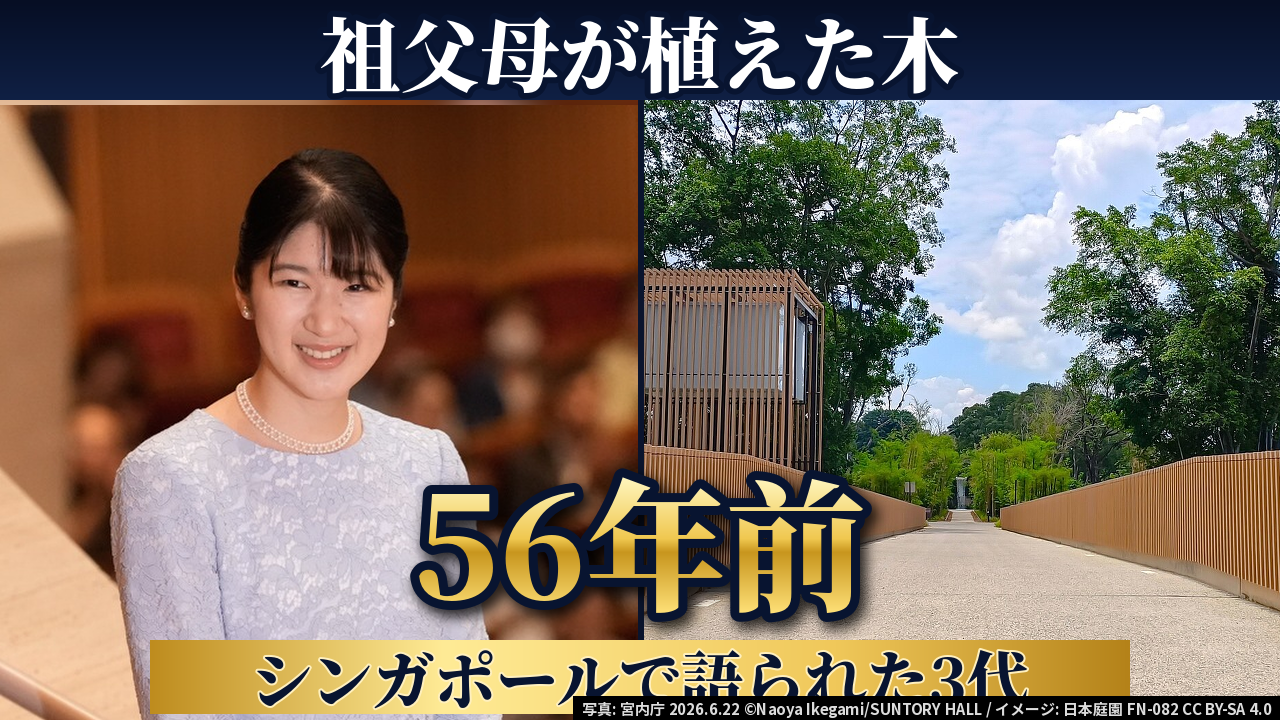
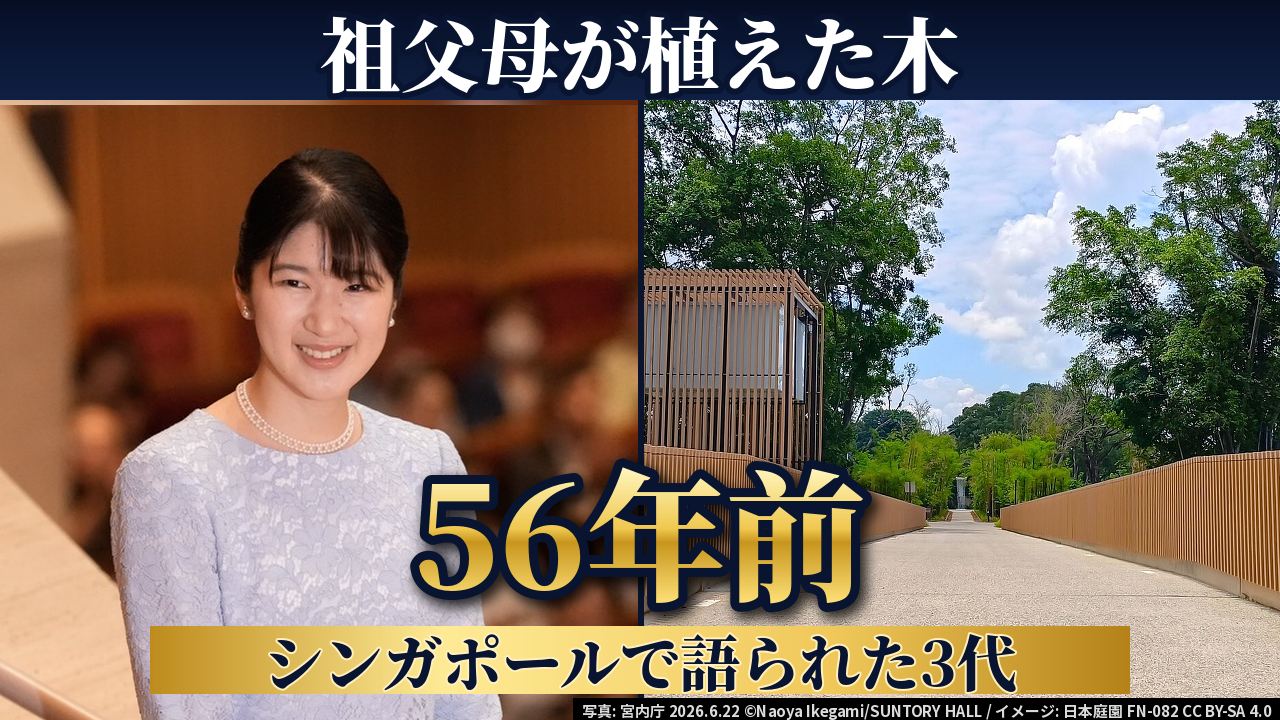
長尺の表紙: クレジットとタイトルを重ねない配置と検査(荒木指示)
Claude-Session: https://claude.ai/code/session_01BJaPieHBuTRAAQkfULpzEX

Changed region(s): [[0.0938, 0.6417, 1.0, 1.0]]

diff --git a/pipeline/thumb_long.py b/pipeline/thumb_long.py
@@ -115,10 +115,14 @@ def gold_band(im, box, s, size):
     text(im, ((x0 + x1) // 2, (y0 + y1) // 2), s, size, fill=NAVY, stroke=(255, 240, 190), sw=2, shadow=False, anchor="mm", maxw=x1 - x0 - 30)
 
 
-def credit(im, s):
+def credit(im, s, boxes=()):
+    """写真の出典(右下・小さく)。文字・帯の枠と重ならないことを確かめる(荒木指示 2026-11-24)"""
     d = ImageDraw.Draw(im); f = ImageFont.truetype("/usr/local/share/fonts/noto-sans-jp/NotoSansJP-Bold.ttf", 15)
-    w = d.textlength(s, font=f); d.rectangle((W - w - 16, H - 24, W, H), fill=(0, 0, 0)); d.text((W - w - 8, H - 23), s, font=f, fill=(220, 220, 220))
-
+    w = d.textlength(s, font=f); box = (W - w - 16, H - 22, W, H)
+    d.rectangle(box, fill=(0, 0, 0)); d.text((W - w - 8, H - 21), s, font=f, fill=(220, 220, 220))
+    hit = [b for b in boxes if box[0] < b[2] and box[2] > b[0] and box[1] < b[3] and box[3] > b[1]]
+    if hit:
+        raise SystemExit(f"クレジットが文字と重なっています: {hit}")
 
 def type_R(out, img, focus, big, band, line, cap, big_fill="white", face_h=240):
     """人物1名(荒木さんと調整中の型): 写真 約5.5割(右)・文字 約4.5割(左)。スマホで55歳以上の女性が読める大きさ"""
@@ -131,7 +135,7 @@ def type_R(out, img, focus, big, band, line, cap, big_fill="white", face_h=240):
     text(im, (30, 60), big, 150, fill=big_fill, sw=8, maxw=600)
     gold_band(im, (20, 285, 640, 395), band, 84)
     text(im, (30, 430), line, 96, sw=8, maxw=620)
-    credit(im, cap); im.save(out)
+    credit(im, cap, [(20, 40, 640, 250), (20, 285, 640, 395), (20, 420, 660, 560)]); im.save(out)
     check_faces(out, faces_, [(20, 40, 640, 250), (20, 285, 640, 395), (20, 420, 660, 560)])
 
 
@@ -145,10 +149,10 @@ def type_D(out, img1, f1, img2, f2, top, big, band, cap):
     faces_ = ([fa] if f1 is None or len(f1) < 4 else []) + ([(fb[0] + 640, fb[1], fb[2], fb[3])] if f2 is None or len(f2) < 4 else [])
     im.paste(grad(W, 100, [(0, (6, 14, 36)), (1, (16, 32, 68))]), (0, 0))
     text(im, (W // 2, 50), top, 80, anchor="mm", maxw=1220, shadow=False)
-    text(im, (W // 2, 538), big, 140, fill="gold", sw=9, anchor="mm", maxw=1060)
-    gold_band(im, (150, 640, 1130, 714), band, 62)
-    credit(im, cap); im.save(out)
-    check_faces(out, faces_, [(0, 0, W, 100), (110, 465, 1170, 720)])
+    text(im, (W // 2, 528), big, 140, fill="gold", sw=9, anchor="mm", maxw=1060)
+    gold_band(im, (150, 626, 1130, 694), band, 60)
+    credit(im, cap, [(150, 626, 1130, 694), (110, 455, 1170, 600)]); im.save(out)
+    check_faces(out, faces_, [(0, 0, W, 100), (110, 455, 1170, 720)])
 
 
 if __name__ == "__main__":

diff --git a/templates/thumb_long_template.md b/templates/thumb_long_template.md
@@ -20,7 +20,7 @@
 - 背景は写真。写真のない所は濃紺のグラデーション（写真へなじませる）
 - 赤・絵文字・汗マーク・?!・赤丸・作り台詞の吹き出し・矢印は使わない。写真は切り抜き・拡大縮小のみ（顔の加工・AI生成はしない。参考画像の生成画像そのものは使わない）
 - **お顔を文字に重ねない・見切れさせない（荒木指示 2026-11-24）：** お顔は決まった位置に決まった大きさで置く（型R: 右側 x約860・顔の高さ約240px・y約330／型D: 左右それぞれの中央・顔の高さ約175px・y約305）。髪から顎までの頭の範囲が、文字・帯の枠と重ならず、画面の外に出ないことを `check_faces` で必ず確かめる（不合格なら写真か位置を変える）。写真が足りない所は同じ写真のぼかしで埋める。主役以外の方のお顔が文字の下に半分隠れる写真は使わない
-- 右下に小さく写真の出典・撮影日
+- 右下に小さく写真の出典・撮影日。**クレジットはタイトルの文字・金の帯と重ねない**（荒木指示 2026-11-24。型Dでは金の帯を y約626〜694 に上げ、その下の細い余白に置く。`credit` 関数が重なりを検査し、重なれば止める）
 
 **写真と文字のバランス（荒木指示 2026-11-24 確定）：** **写真 約5.5割・文字 約4.5割。見る人はスマホで55歳以上の女性**と考え、文字は大きく太く（縁取り8〜9px＋影）、お顔ははっきり見える大きさ（型Rで約240px・型Dで約175px）にする。**下部に濃紺のグラデーションは敷かない**（下の文字は写真の上に縁取りで載せ、帯は金の帯だけ）。
 - **主役の写真は長辺1000px以上のものを使う**（宮内庁の400px程度の写真は大きく引き伸ばすとぼやけるため、主役には使わない）
